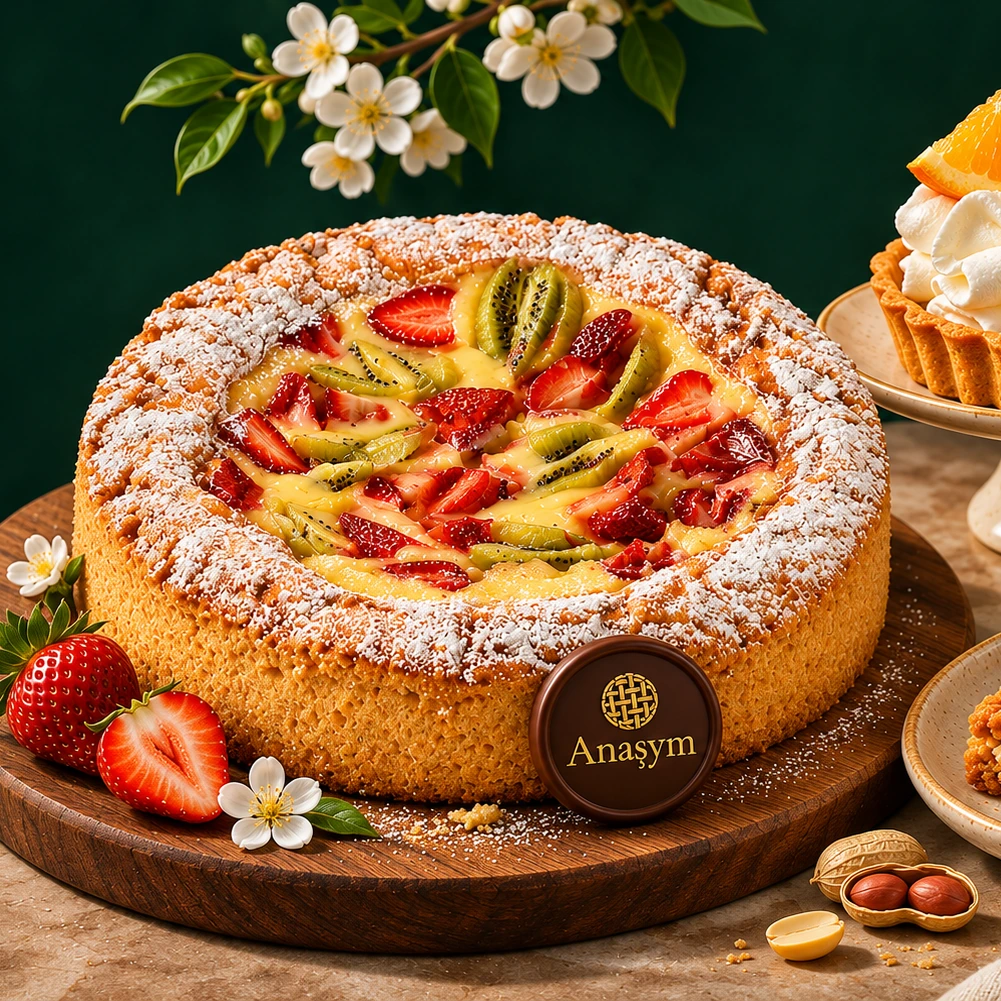
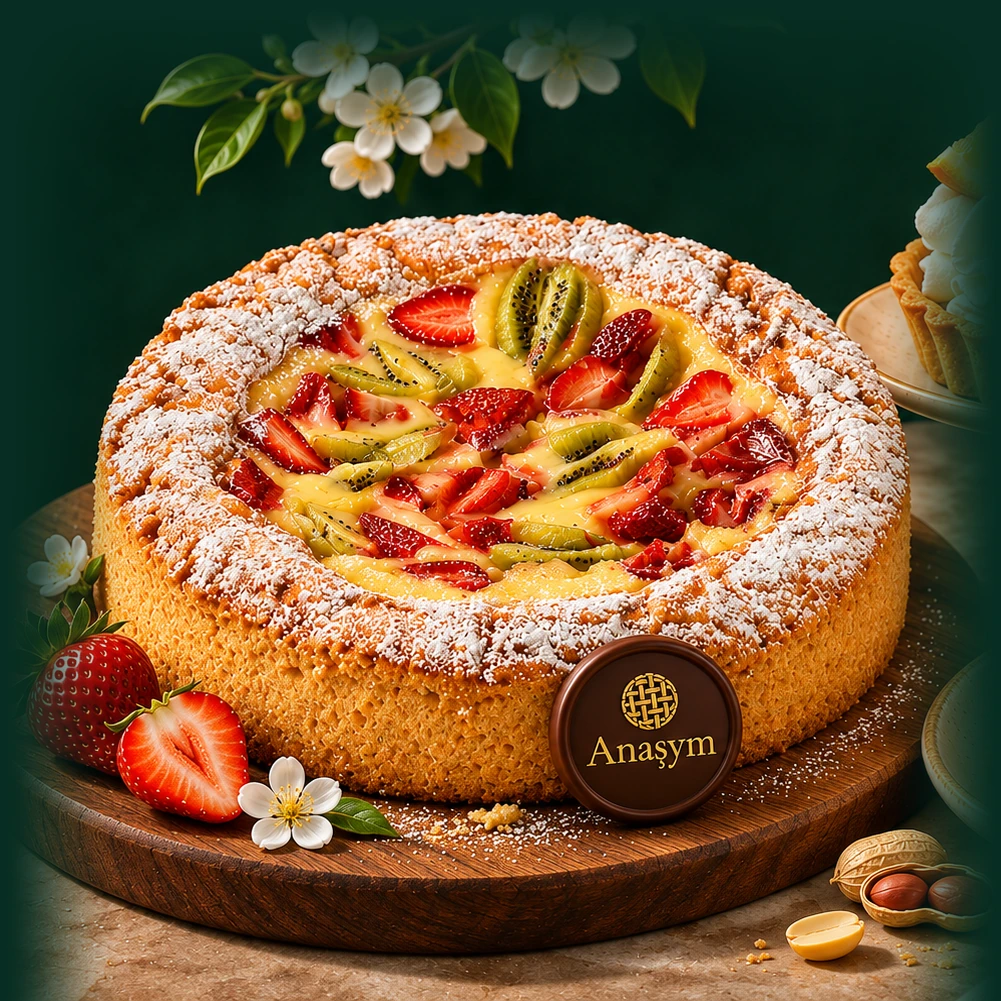
style(frontend): centre the cake in the phone hero and keep it below the text
Re-cut the phone photo with the cake centred and the side items faded into
the hero green, and tie the hero's bottom padding to the screen width so the
cake starts under the tagline instead of behind it. Desktop is unchanged.

diff --git a/frontend/src/styles.css b/frontend/src/styles.css
@@ -31,7 +31,7 @@
   .hero{min-height:max(575px,100vw)}
   .hero-image{inset:auto 0 0;width:100%;height:auto;aspect-ratio:1;object-fit:contain;object-position:center;opacity:1}
   .hero-shade{background:linear-gradient(180deg,#062d22 0%,#062d22 18%,#062d22e6 35%,#062d2250 63%,#062d2200 80%),linear-gradient(90deg,#062d2299,#062d2200 85%)}
-  .hero-content{padding-top:32px;padding-bottom:145px}
+  .hero-content{padding-top:32px;padding-bottom:calc(79vw + 20px)}
   .hero h1{font-size:clamp(42px,11.8vw,57px);line-height:1.04;letter-spacing:-.6px}
   .hero .eyebrow{font-size:12px;letter-spacing:0.84px;margin-bottom:18px}
   .hero-content>p{max-width:255px;font-size:13px;margin:18px 0 20px}
